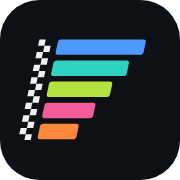
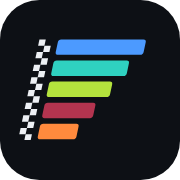
v21.07 : Clément passe en bordeaux (#85)
Claude-Session: https://claude.ai/code/session_01PCnbeDcEV828KyC3amVzTp

Changed region(s): [[0.2222, 0.5556, 0.5278, 0.6667]]

diff --git a/css/versus.css b/css/versus.css
@@ -20,7 +20,7 @@ html { -webkit-tap-highlight-color: transparent; }
   --up-bg: rgba(74, 222, 128, .12);
   --down-bg: rgba(255, 107, 107, .12);
   --gold: #F5C542; --perime: #FFA94D;
-  --p0: #4C9AFF; --p1: #2FD1C0; --p2: #F25C9A; --p3: #FF8A3D; --p4: #B4E33D;
+  --p0: #4C9AFF; --p1: #2FD1C0; --p2: #B3344F; --p3: #FF8A3D; --p4: #B4E33D;
   --idx: #8C95A3;
   --shade: rgba(0, 0, 0, .35);
   --f-display: "Saira Condensed", "Arial Narrow", "Roboto Condensed", sans-serif;
@@ -33,7 +33,7 @@ html { -webkit-tap-highlight-color: transparent; }
     --bg: #EEF0F3; --panel: #FFFFFF; --panel-2: #F5F6F8; --ink: #11151B; --ink-2: #4A5361; --ink-3: #697281;
     --rule: #D4D8DF; --rule-2: #E4E7EC; --accent: #5B3FE0; --accent-ink: #4B30C9;
     --up: #15803D; --down: #C62828; --up-bg: rgba(21, 128, 61, .10); --down-bg: rgba(198, 40, 40, .09);
-    --gold: #B7791F; --perime: #B4500A; --p0: #1F64D1; --p1: #0B8A7E; --p2: #C2185B; --p3: #C25A0E; --p4: #5A8A0C; --idx: #6B7380;
+    --gold: #B7791F; --perime: #B4500A; --p0: #1F64D1; --p1: #0B8A7E; --p2: #8E1F3A; --p3: #C25A0E; --p4: #5A8A0C; --idx: #6B7380;
     --shade: rgba(17, 21, 27, .10); color-scheme: light;
   }
 }
@@ -41,7 +41,7 @@ html { -webkit-tap-highlight-color: transparent; }
   --bg: #EEF0F3; --panel: #FFFFFF; --panel-2: #F5F6F8; --ink: #11151B; --ink-2: #4A5361; --ink-3: #697281;
   --rule: #D4D8DF; --rule-2: #E4E7EC; --accent: #5B3FE0; --accent-ink: #4B30C9;
   --up: #15803D; --down: #C62828; --up-bg: rgba(21, 128, 61, .10); --down-bg: rgba(198, 40, 40, .09);
-  --gold: #B7791F; --perime: #B4500A; --p0: #1F64D1; --p1: #0B8A7E; --p2: #C2185B; --p3: #C25A0E; --p4: #5A8A0C; --idx: #6B7380;
+  --gold: #B7791F; --perime: #B4500A; --p0: #1F64D1; --p1: #0B8A7E; --p2: #8E1F3A; --p3: #C25A0E; --p4: #5A8A0C; --idx: #6B7380;
   --shade: rgba(17, 21, 27, .10); color-scheme: light;
 }
 
@@ -900,7 +900,7 @@ details.ex-bloc > summary .ex-niv small::after { content: " ▾"; } details.ex-b
 .nav-v { width: 26px; height: 26px; border-radius: 7px; border: 1px solid var(--rule); background: var(--panel-2); color: var(--ink); font: 700 15px/1 var(--f-text); cursor: pointer; display: grid; place-items: center; padding: 0; }
 .nav-v:disabled { opacity: .3; cursor: default; }
 /* Bilan de l'année (Wrapped) */
-.wr { --p0: #4C9AFF; --p1: #2FD1C0; --p2: #F25C9A; --p3: #FF8A3D; --p4: #B4E33D; --gold: #F5C542; --up: #3DDC84; --down: #FF5C6C; --c: #9B87FF;
+.wr { --p0: #4C9AFF; --p1: #2FD1C0; --p2: #B3344F; --p3: #FF8A3D; --p4: #B4E33D; --gold: #F5C542; --up: #3DDC84; --down: #FF5C6C; --c: #9B87FF;
   position: fixed; inset: 0; z-index: 90; color: #F4F5F8; background: #0B0D12; display: grid; grid-template-rows: auto 1fr; overflow: hidden; user-select: none; -webkit-user-select: none; }
 .wr::before { content: ""; position: absolute; inset: -20%; background: radial-gradient(circle at 25% 20%, color-mix(in srgb, var(--c) 42%, transparent), transparent 55%), radial-gradient(circle at 85% 90%, color-mix(in srgb, var(--c) 22%, transparent), transparent 50%); transition: background .5s; pointer-events: none; }
 .wr-top { position: relative; display: grid; gap: 10px; padding: calc(env(safe-area-inset-top, 0px) + 12px) 16px 0; }

diff --git a/version.js b/version.js
@@ -3,4 +3,4 @@
    À chaque mise en ligne : changer « app » et « date » ici, rien d'autre.
    Lu par index.html (affiché dans Réglages) et par sw.js (nom du cache hors connexion).
    ============================================================ */
-self.VERSUS_VERSION = { app: "21.06", date: "26 novembre 2026" };
+self.VERSUS_VERSION = { app: "21.07", date: "26 novembre 2026" };

diff --git a/CLAUDE.md b/CLAUDE.md
@@ -27,7 +27,7 @@ Ne lire que la fiche de la partie du chantier en cours. Ancienne fiche et journa
 | Fichier | Partie |
 |---|---|
 | `index.html`, `css/versus.css`, `sw.js`, `manifest.webmanifest` | communs |
-| `version.js` (`app` + `date`) : **seul endroit à changer** à chaque mise en ligne (sert aussi au cache hors connexion). Version actuelle : **21.06** | commun |
+| `version.js` (`app` + `date`) : **seul endroit à changer** à chaque mise en ligne (sert aussi au cache hors connexion). Version actuelle : **21.07** | commun |
 | `js/1-base.js` … `js/8-eredor-demarrage.js`, `js/icones.js`, `js/sons.js`, `piste.js`, `img/cartes/` | jeu |
 | `moi.js`, `moteur.js` (calculs) | Moi |
 | `outils-tests/` | tests (harness, scènes 3D, captures) |
